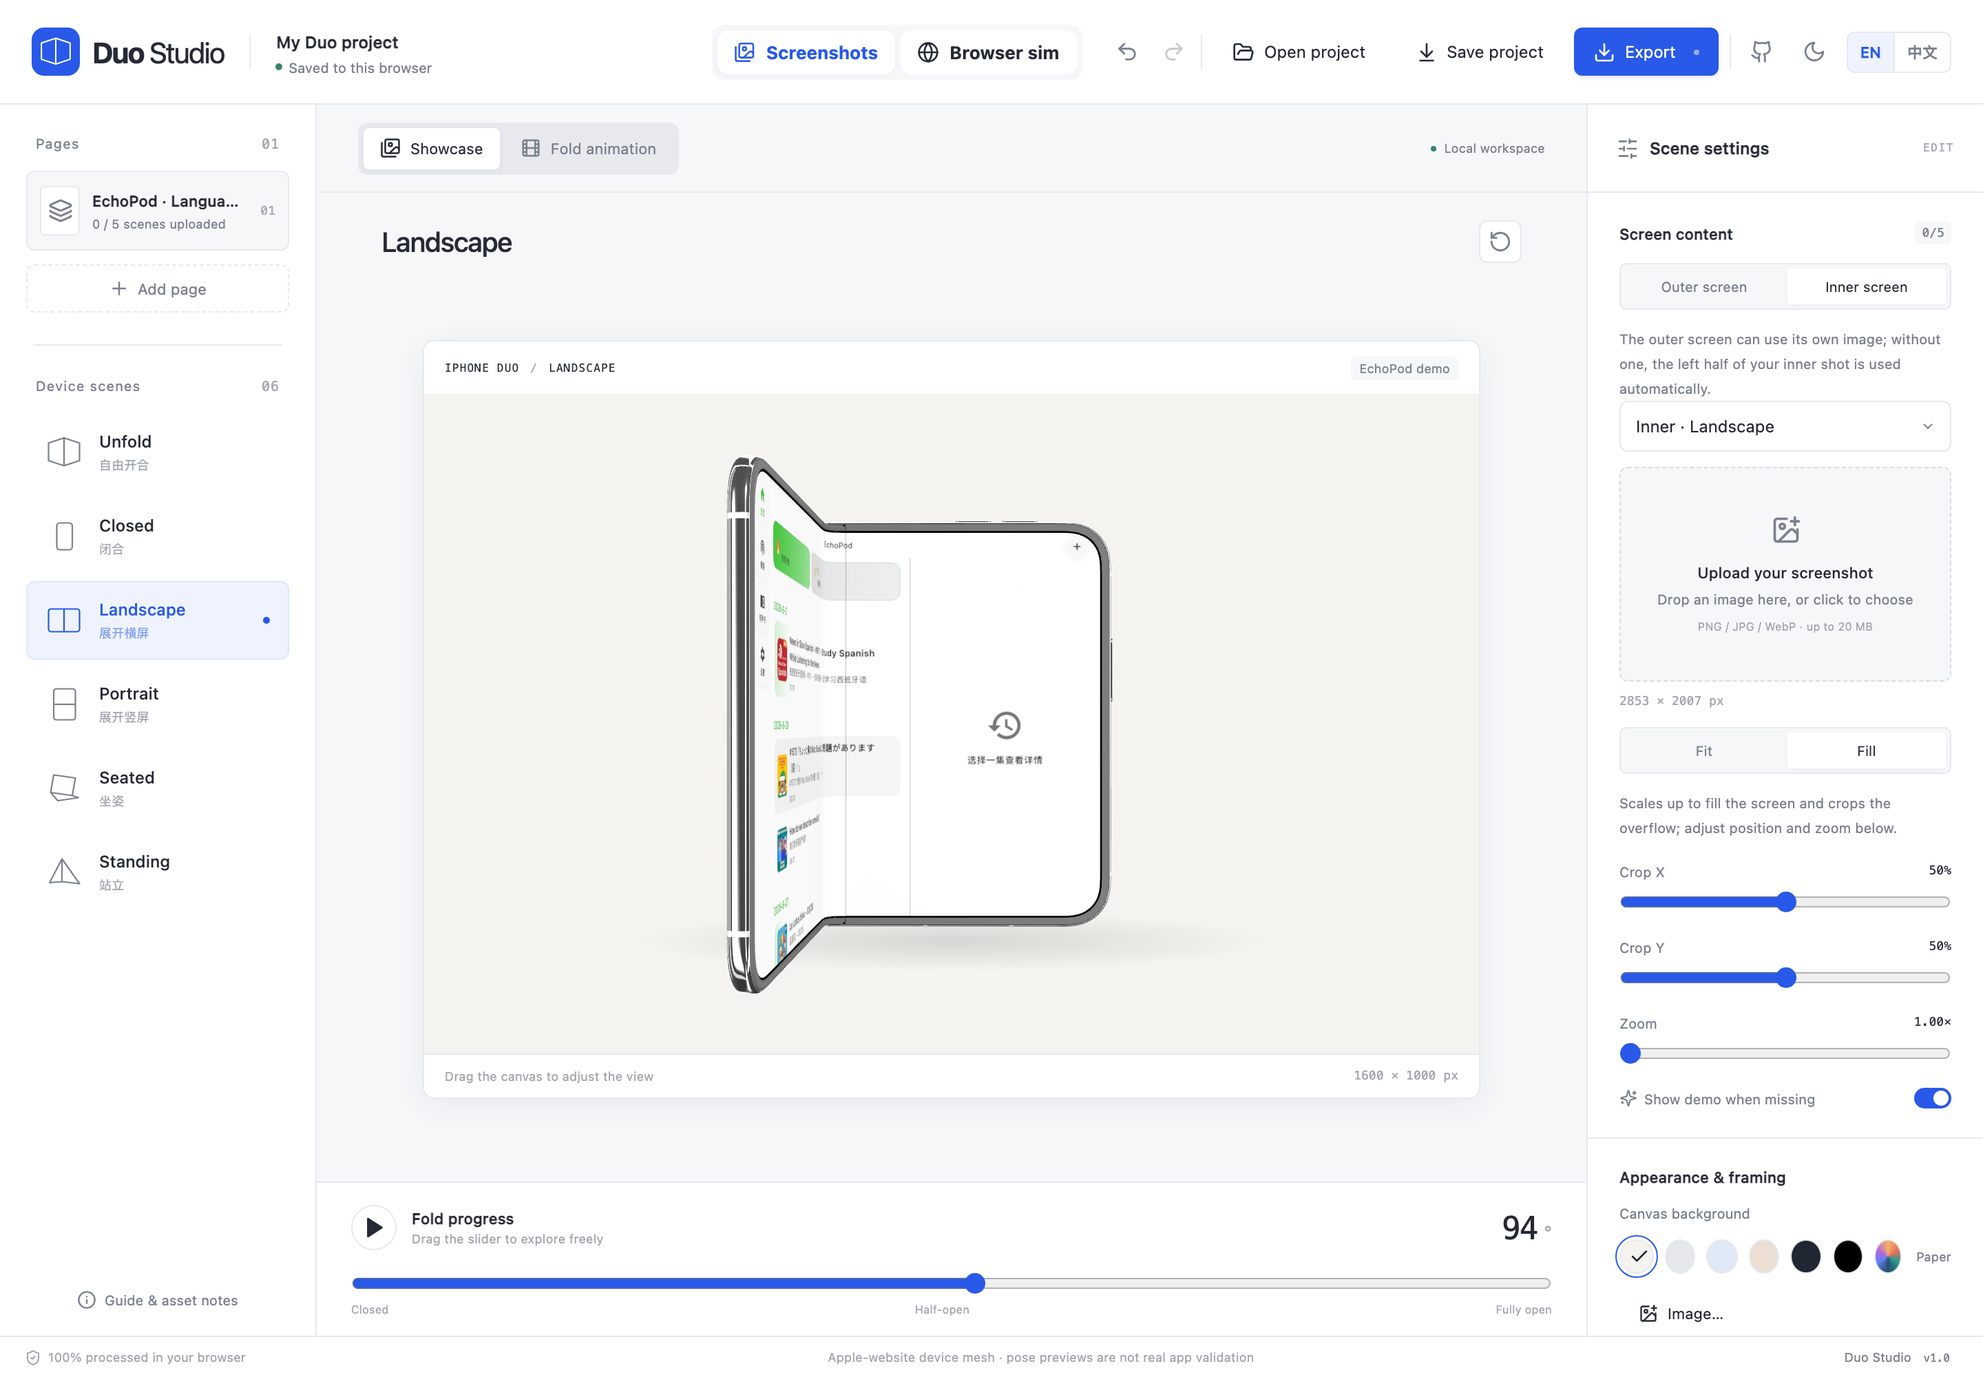
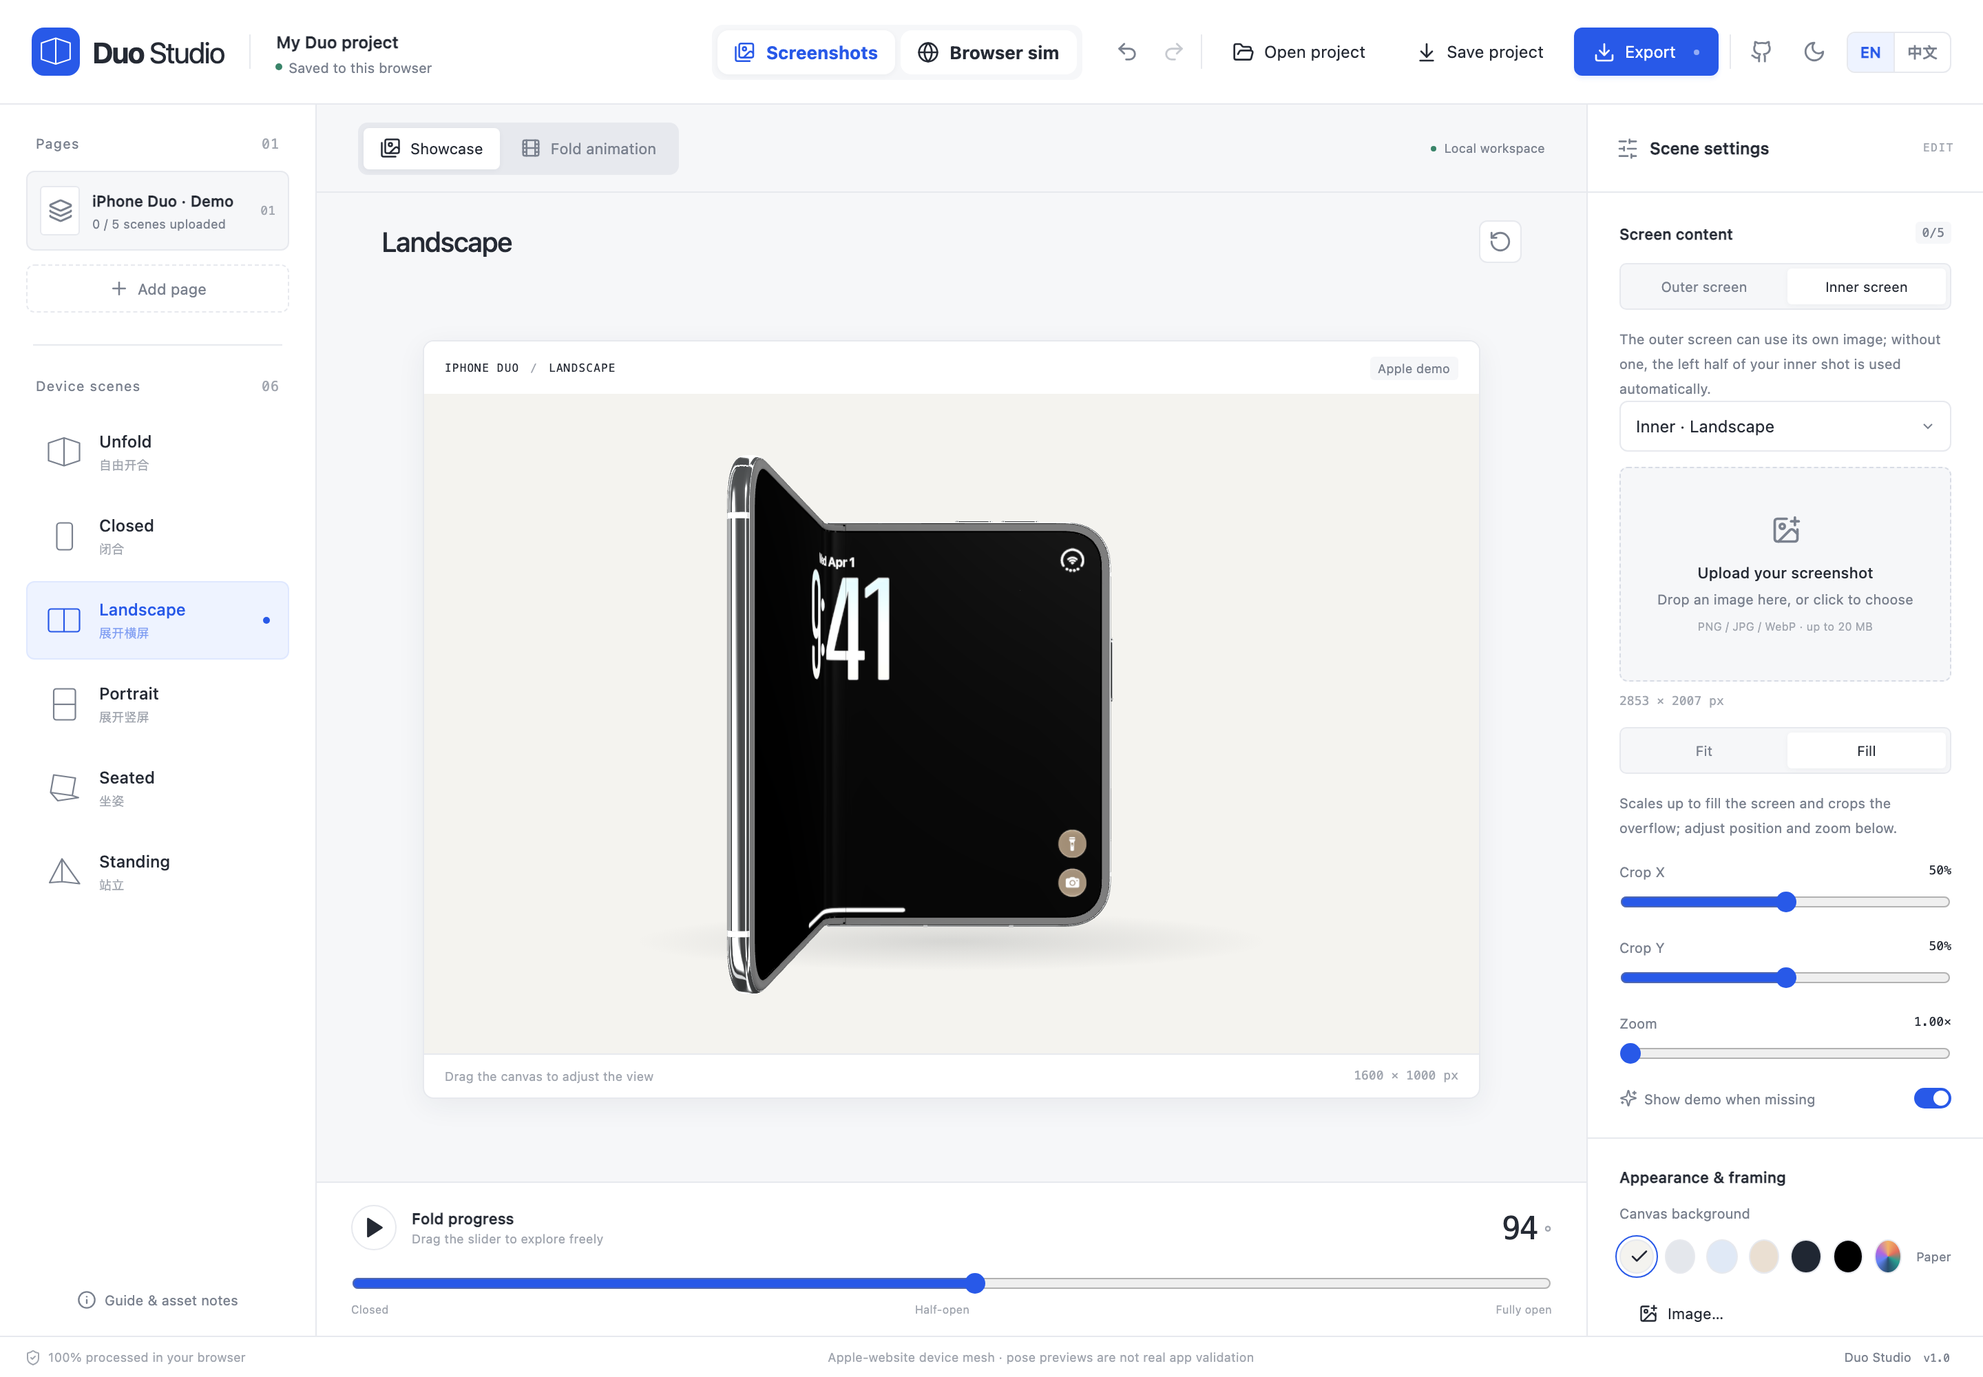
Use Apple's official iPhone Duo lock screens as the default demo content
Placeholder screens now come from Apple's own viewer assets
(lockscreen_ui_inner/outer wallpaper KTX, already recorded in
reference/apple-duo/urls.json): the outer image matches the 1398×2034
spec exactly and the inner 2048×1441 image carries the inner landscape
ratio; portrait/standing variants are centre crops, all regenerated at
exact slot sizes by scripts/prepare-apple-assets.py (440 KB total,
replacing the 2.9 MB EchoPod set).

UI labels switch from "EchoPod demo" to "Apple demo", the inspector
section credits apple.com/sg/iphone-duo, and tests/readmes follow.

Changed region(s): [[0.375, 0.341, 0.5625, 0.713], [0.0625, 0.124, 0.125, 0.155]]

diff --git a/src/i18n/en.ts b/src/i18n/en.ts
@@ -52,7 +52,7 @@ export const en = {
   'badge.local': 'Local workspace',
   'canvas.webPreview': 'Web preview',
   'tag.liveWeb': 'Live web',
-  'tag.demo': 'EchoPod demo',
+  'tag.demo': 'Apple demo',
   'tag.missing': 'Shots missing',
   'tag.yours': 'Your shots',
   'hint.browserInteractive': 'Click the page to interact · slider folds the device',
@@ -86,7 +86,7 @@ export const en = {
   'section.animation': 'Animation',
   'section.previewCanvas': 'Preview canvas',
   'section.output': 'Output size',
-  'section.demo': 'EchoPod demo',
+  'section.demo': 'Demo content',
   'section.page': 'Current page',
   'slotGroup.outer': 'Outer screen',
   'slotGroup.inner': 'Inner screen',
@@ -145,10 +145,10 @@ export const en = {
   'hint.outputAnimation': 'Video max edge 1280 px · GIF max edge 640 px',
   'hint.outputImage': 'PNG exports at the selected size, keeping the UI ratio.',
   'demo.description':
-    'Learn languages with podcasts, YouTube, and your own media: word-by-word captions, instant lookup, translation, and AI grammar help.',
+    'Placeholder screens use the official iPhone Duo lock screen imagery from apple.com, so you can explore poses and exports before uploading anything.',
   'demo.note':
-    'These images only demonstrate the simulator. Upload your own screens to generate your own mockups and animations.',
-  'demo.link': 'Learn about EchoPod ↗',
+    'Demo images are for showcasing only — upload your own screens to generate real mockups and animations.',
+  'demo.link': 'See iPhone Duo on apple.com ↗',
   'footer.local': '100% processed in your browser',
   'footer.disclaimer': 'Apple-website device mesh · pose previews are not real app validation',
   'modal.deleteTitle': 'Delete this page?',
@@ -167,7 +167,7 @@ export const en = {
   'help.privacyNote':
     'Assets never leave your device. Autosave stays in this browser; download a project backup before clearing browser data.',
   'help.assetsNote':
-    'The device uses the mesh and fold animation published on the Apple website; materials and screen effects are rendered locally. Demo screens come from EchoPod, provided by its users. Until you upload assets, screens are clearly marked "EchoPod demo" — nothing is auto-adapted.',
+    'The device uses the mesh and fold animation published on the Apple website; materials and screen effects are rendered locally. Placeholder screens are Apple’s official iPhone Duo lock screen imagery. Until you upload assets, screens are clearly marked "Apple demo" — nothing is auto-adapted.',
   'help.storeNote':
     'App Store App Previews must be based on real app screen recordings; this tool’s device animation is for promotion. Screenshot specs referenced on 2026-09-10.',
   'help.appleSpecs': 'View Apple screenshot specs ↗',
@@ -316,10 +316,9 @@ export const en = {
   'output.square': 'Square · 1200 × 1200',
   'project.defaultName': 'My Duo project',
   'project.unnamed': 'Untitled project',
-  'project.demoPageName': 'EchoPod · Language learning',
-  'project.demoTitle': 'EchoPod — turn listening into learning.',
-  'project.demoSubtitle':
-    'Word-by-word captions, instant lookup, translation, and AI grammar help.',
+  'project.demoPageName': 'iPhone Duo · Demo',
+  'project.demoTitle': 'iPhone Duo.',
+  'project.demoSubtitle': 'Demo content from the Apple website.',
   'page.newPage': 'New page',
   'page.unnamed': 'Untitled page',
   'page.defaultName': 'Page {n}',

diff --git a/src/i18n/zh.ts b/src/i18n/zh.ts
@@ -52,7 +52,7 @@ export const zh = {
   'badge.local': '本地工作区',
   'canvas.webPreview': '网页预览',
   'tag.liveWeb': '实时网页',
-  'tag.demo': 'EchoPod 示例',
+  'tag.demo': 'Apple 示例',
   'tag.missing': '有素材待上传',
   'tag.yours': '你的截图',
   'hint.browserInteractive': '点击网页交互 · 滑杆控制开合',
@@ -86,7 +86,7 @@ export const zh = {
   'section.animation': '动画设置',
   'section.previewCanvas': '预览画布',
   'section.output': '输出尺寸',
-  'section.demo': 'EchoPod 示例',
+  'section.demo': '演示内容',
   'section.page': '当前页面',
   'slotGroup.outer': '外屏截图',
   'slotGroup.inner': '内屏截图',
@@ -138,9 +138,9 @@ export const zh = {
   'hint.outputAnimation': '视频最长边 1280 px · GIF 最长边 640 px',
   'hint.outputImage': 'PNG 按所选尺寸导出，保持界面比例。',
   'demo.description':
-    '用播客、YouTube 和自己的音视频学习语言：逐词同步字幕、即时查词、翻译与 AI 语法讲解。',
-  'demo.note': '当前图片仅用于展示模拟器能力。上传你的内外屏截图，即可生成自己的效果图和动画。',
-  'demo.link': '了解 EchoPod ↗',
+    '缺图时的占位画面使用 Apple 官网 iPhone Duo 的官方锁屏演示图，上传素材前即可体验各种形态与导出。',
+  'demo.note': '演示图仅用于展示工具能力，上传你的截图即可生成真实效果图与动画。',
+  'demo.link': '查看 Apple 官网 iPhone Duo ↗',
   'footer.local': '100% 浏览器本地处理',
   'footer.disclaimer': '官网设备网格 · 形态预览不等同于真实适配验证',
   'modal.deleteTitle': '删除这个页面？',
@@ -156,7 +156,7 @@ export const zh = {
     'PNG 用于展示，MP4/WebM/GIF 用于宣传。批量 ZIP 只包含实际上传的场景。保存项目文件可携带全部截图。',
   'help.privacyNote': '素材不会上传。自动保存仅在当前浏览器内；清理浏览器数据前，请下载项目备份。',
   'help.assetsNote':
-    '设备采用 Apple 官网公开的网格与开合动画，材质及屏幕效果在本地渲染；示例界面来自 EchoPod，由用户提供。没有上传素材时会明确显示“EchoPod 示例”，不会生成自动适配结果。',
+    '设备采用 Apple 官网公开的网格与开合动画，材质及屏幕效果在本地渲染；占位画面为 Apple 官网 iPhone Duo 官方锁屏演示图。没有上传素材时会明确显示“Apple 示例”，不会生成自动适配结果。',
   'help.storeNote':
     'App Store App Preview 需要以 App 自身录屏为基础；本工具的设备动画用于宣传。截图规范参考日期：2026-09-10。',
   'help.appleSpecs': '查看 Apple 截图规格 ↗',
@@ -299,9 +299,9 @@ export const zh = {
   'output.square': '方形 · 1200 × 1200',
   'project.defaultName': '我的 Duo 项目',
   'project.unnamed': '未命名项目',
-  'project.demoPageName': 'EchoPod · 语言学习',
-  'project.demoTitle': 'EchoPod，让聆听成为学习。',
-  'project.demoSubtitle': '跟随逐词字幕，查词、翻译，用 AI 理解每一句。',
+  'project.demoPageName': 'iPhone Duo · 演示',
+  'project.demoTitle': 'iPhone Duo。',
+  'project.demoSubtitle': '演示内容来自 Apple 官网。',
   'page.newPage': '新页面',
   'page.unnamed': '未命名页面',
   'page.defaultName': '页面 {n}',

diff --git a/tests/editor.spec.ts b/tests/editor.spec.ts
@@ -129,7 +129,7 @@ test('project round trip, persistence, undo and invalid import isolation', async
   await page.getByRole('button', { name: 'Add page', exact: true }).click();
   await expect(page.getByLabel('Page name')).toHaveValue('Page 2');
   await page.getByRole('button', { name: 'Undo', exact: true }).click();
-  await expect(page.getByLabel('Page name')).toHaveValue('EchoPod · Language learning');
+  await expect(page.getByLabel('Page name')).toHaveValue('iPhone Duo · Demo');
   await page.getByLabel('Import project file').setInputFiles({
     name: 'bad.json',
     mimeType: 'application/json',
@@ -179,14 +179,14 @@ test('batch ZIP only contains uploaded scenes and raw PNG matches official resol
   expect(pngSize(raw)).toEqual([1398, 2034]);
 });
 
-test('EchoPod demo replaces store mode and exports display sizes', async ({ page }) => {
+test('built-in demo replaces store mode and exports display sizes', async ({ page }) => {
   await ready(page);
   await expect(page.getByRole('button', { name: 'Store bundle', exact: true })).toHaveCount(0);
-  await expect(page.getByRole('link', { name: 'Learn about EchoPod ↗' })).toHaveAttribute(
+  await expect(page.getByRole('link', { name: 'See iPhone Duo on apple.com ↗' })).toHaveAttribute(
     'href',
-    'https://echopod.clothpath.com/',
+    'https://www.apple.com/sg/iphone-duo/',
   );
-  await expect(page.getByLabel('Page name')).toHaveValue('EchoPod · Language learning');
+  await expect(page.getByLabel('Page name')).toHaveValue('iPhone Duo · Demo');
   for (const [size, expected] of Object.entries({
     wide: [1600, 1000],
     tall: [1080, 1350],

diff --git a/tests/demo-sources.spec.ts b/tests/demo-sources.spec.ts
@@ -1,13 +1,13 @@
 import { test, expect } from '@playwright/test';
 import { readFile } from 'node:fs/promises';
-test('EchoPod source images match all five device slots', async ({ page }) => {
+test('Apple source images match all five device slots', async ({ page }) => {
   for (const [name, w, h] of [
     ['inner', 2853, 2007],
     ['inner-portrait', 2007, 2853],
     ['outer-landscape', 2034, 1398],
     ['outer', 1398, 2034],
   ] as const) {
-    const file = await readFile(`public/demo/echopod/${name}.png`);
+    const file = await readFile(`public/demo/apple/${name}.png`);
     expect([file.readUInt32BE(16), file.readUInt32BE(20)]).toEqual([w, h]);
   }
   await page.goto('/');
@@ -29,7 +29,7 @@ test('EchoPod source images match all five device slots', async ({ page }) => {
       actual.width = expected.width = 320;
       actual.height = expected.height = Math.round((320 * SPECS[slot].height) / SPECS[slot].width);
       await drawDemo(actual.getContext('2d'), actual.width, actual.height, slot);
-      const image = await decodeImage(`/demo/echopod/${file}.png`),
+      const image = await decodeImage(`/demo/apple/${file}.png`),
         ctx = expected.getContext('2d')!;
       ctx.fillStyle = 'white';
       ctx.fillRect(0, 0, expected.width, expected.height);

diff --git a/src/lib/assets.ts b/src/lib/assets.ts
@@ -112,9 +112,9 @@ export async function screenCanvas(
   return c;
 }
 const demoImages = new Map<string, Promise<HTMLImageElement>>();
-/** Bundled EchoPod examples are never counted as user uploads. */
+/** Bundled Apple lock screen examples are never counted as user uploads. */
 export async function drawDemo(ctx: CanvasRenderingContext2D, w: number, h: number, slot: Slot) {
-  const url = `/demo/echopod/${slot === 'landscape' ? 'inner' : slot === 'portrait' || slot === 'seated' ? 'inner-portrait' : slot === 'standing' ? 'outer-landscape' : 'outer'}.png`;
+  const url = `/demo/apple/${slot === 'landscape' ? 'inner' : slot === 'portrait' || slot === 'seated' ? 'inner-portrait' : slot === 'standing' ? 'outer-landscape' : 'outer'}.png`;
   let pending = demoImages.get(url);
   if (!pending) {
     pending = decodeImage(url).catch((error) => {

diff --git a/tests/browser-mode.spec.ts b/tests/browser-mode.spec.ts
@@ -5,7 +5,7 @@ test('live browser keeps iframe state through folding and workspace switches pre
   await page.goto('/');
   await expect(page.getByText('Saved to this browser')).toBeVisible();
   await page.getByRole('button', { name: 'Inner screen', exact: true }).click();
-  await page.getByLabel('Upload Inner · Landscape').setInputFiles('public/demo/echopod/inner.png');
+  await page.getByLabel('Upload Inner · Landscape').setInputFiles('public/demo/apple/inner.png');
   await page.getByRole('button', { name: 'Browser sim', exact: false }).click();
   await page
     .getByRole('button', { name: /Landscape/ })

diff --git a/src/lib/project.ts b/src/lib/project.ts
@@ -340,7 +340,7 @@ export const projectSchema = z
   })
   .transform((p) => {
     for (const page of p.pages) {
-      // Legacy projects shipped a travel demo; migrate them to the EchoPod sample in place.
+      // Legacy projects shipped a travel demo; migrate them to the bundled demo naming in place.
       if (
         page.name === '山野 · 旅行计划' &&
         page.title === '把下一程，展开。' &&

diff --git a/src/App.tsx b/src/App.tsx
@@ -1408,7 +1408,7 @@ export default function App() {
               <p className="helper-text">{t('demo.note')}</p>
               <a
                 className="text-button"
-                href="https://echopod.clothpath.com/"
+                href="https://www.apple.com/sg/iphone-duo/"
                 target="_blank"
                 rel="noreferrer"
               >

diff --git a/scripts/prepare-apple-assets.py b/scripts/prepare-apple-assets.py
@@ -38,4 +38,36 @@ shutil.copyfile(source / 'SfFEyQuyjAgUwjH.exr', target / 'studio.exr')
 scene = json.loads((source / 'device-scene.json').read_text())
 materials = scene['children'][0]['children'][0]['children'][0]['materials']
 (target / 'materials.json').write_text(json.dumps(materials, separators=(',', ':')))
-print(f'Prepared {len(model["meshes"])} meshes, {len(model["images"])} textures, {len(model["animations"])} animations')
+
+
+def decode_ktx(name):
+    data = (source / name).read_bytes()
+    fmt, _, width, height = struct.unpack_from('<4I', data, 12)
+    assert fmt in (165, 166), f'Unexpected ASTC format: {fmt}'
+    offset, size, _ = struct.unpack_from('<3Q', data, 80)
+    rgba = texture2ddecoder.decode_astc(data[offset:offset + size], width, height, 6, 6)
+    return Image.frombytes('RGBA', (width, height), rgba, 'raw', 'BGRA').convert('RGB')
+
+
+# Placeholder demo screens: Apple's own lock screen imagery from the iPhone Duo
+# viewer. inner is 2048x1441 (inner landscape ratio), outer is exactly 1398x2034.
+# Portrait/standing variants are centre crops so every file matches its slot spec.
+demo = pathlib.Path('public/demo/apple')
+demo.mkdir(parents=True, exist_ok=True)
+inner = decode_ktx('lockscreen_ui_inner-wallpaper_png.ktx')
+outer = decode_ktx('lockscreen_ui_outer-wallpaper_png.ktx')
+assert inner.size == (2048, 1441) and outer.size == (1398, 2034)
+inner.resize((2853, 2007), Image.LANCZOS).save(demo / 'inner.png', optimize=True)
+portrait_width = round(inner.height * 2007 / 2853)
+inner.crop(
+    ((inner.width - portrait_width) // 2, 0, (inner.width + portrait_width) // 2, inner.height)
+).resize((2007, 2853), Image.LANCZOS).save(demo / 'inner-portrait.png', optimize=True)
+landscape_height = round(inner.width * 1398 / 2034)
+inner.crop(
+    (0, (inner.height - landscape_height) // 2, inner.width, (inner.height + landscape_height) // 2)
+).resize((2034, 1398), Image.LANCZOS).save(demo / 'outer-landscape.png', optimize=True)
+outer.save(demo / 'outer.png', optimize=True)
+print(
+    f'Prepared {len(model["meshes"])} meshes, {len(model["images"])} textures, '
+    f'{len(model["animations"])} animations, 4 demo screens'
+)

diff --git a/README.zh-CN.md b/README.zh-CN.md
@@ -41,9 +41,9 @@ npm run format:check
 4. 导出 PNG、MP4、WebM、GIF、真实上传场景 ZIP，或严格尺寸的纯界面 PNG。
 5. 保存 `.duo.json` 项目可携带全部素材。浏览器会自动保存到 IndexedDB，清除站点数据会移除本地自动保存。
 
-缺图时默认使用 EchoPod 示例（用户提供内外屏截图；应用介绍来自 https://echopod.clothpath.com/），界面及导出文件名带示例标识。关闭示例后，缺图会阻断正式导出。批量 ZIP 包含真实上传场景及由内屏左半边生成的外屏，不包含示例。
+缺图时默认使用 Apple 官网 iPhone Duo 的官方锁屏演示图（来自 https://www.apple.com/sg/iphone-duo ），界面及导出文件名带示例标识。关闭示例后，缺图会阻断正式导出。批量 ZIP 包含真实上传场景及由内屏左半边生成的外屏，不包含示例。
 
-EchoPod 仅用于展示工具能力，用户上传后优先展示自己的图片。切换静态场景后调整折叠进度会保留该姿态。旧版上架套图项目导入后自动切换为展示图，并保留素材及历史设置。
+演示图仅用于展示工具能力，用户上传后优先展示自己的图片。切换静态场景后调整折叠进度会保留该姿态。旧版上架套图项目导入后自动切换为展示图，并保留素材及历史设置。
 
 ## Cloudflare Pages
 

diff --git a/README.md b/README.md
@@ -68,7 +68,7 @@ More details in [docs/PRD.md](docs/PRD.md), [docs/IMPLEMENTATION_PLAN.md](docs/I
 - [DuoLikeAnimation](https://github.com/elijah-semyonov/DuoLikeAnimation) — inspiration for the open/close animation approach.
 - Codex Astra — this project was built with the help of the Codex Astra coding agent.
 
-EchoPod demo screens are provided by [EchoPod](https://echopod.clothpath.com/) users and are only used to demonstrate the tool.
+Default placeholder screens are Apple's official iPhone Duo lock screen imagery ([apple.com/sg/iphone-duo](https://www.apple.com/sg/iphone-duo)), used only to demonstrate the tool.
 
 ## License
 
